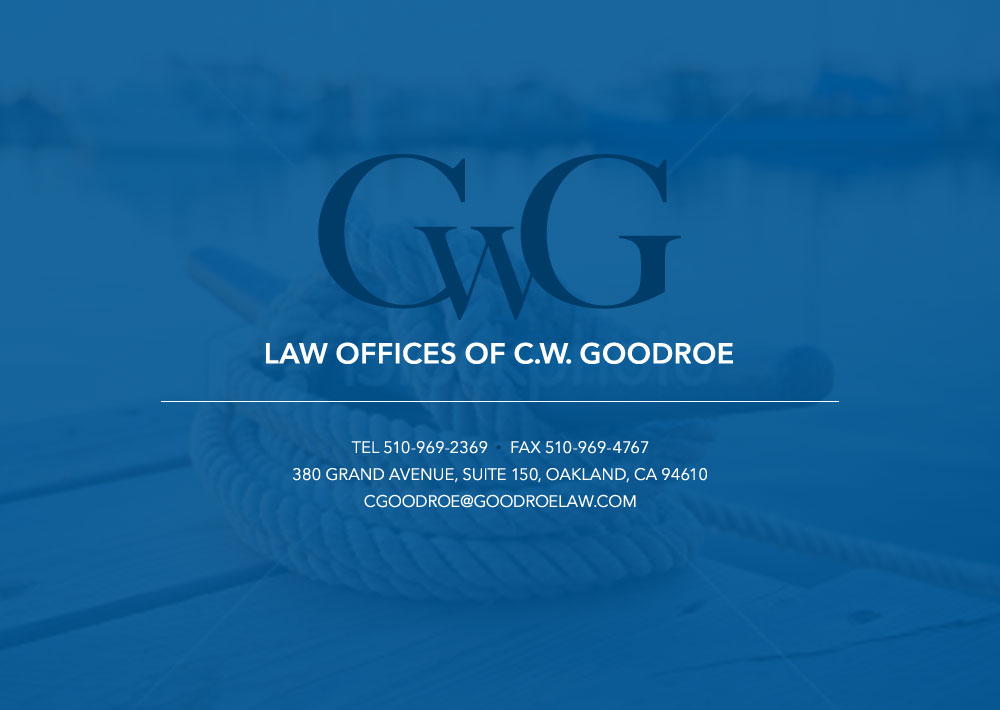
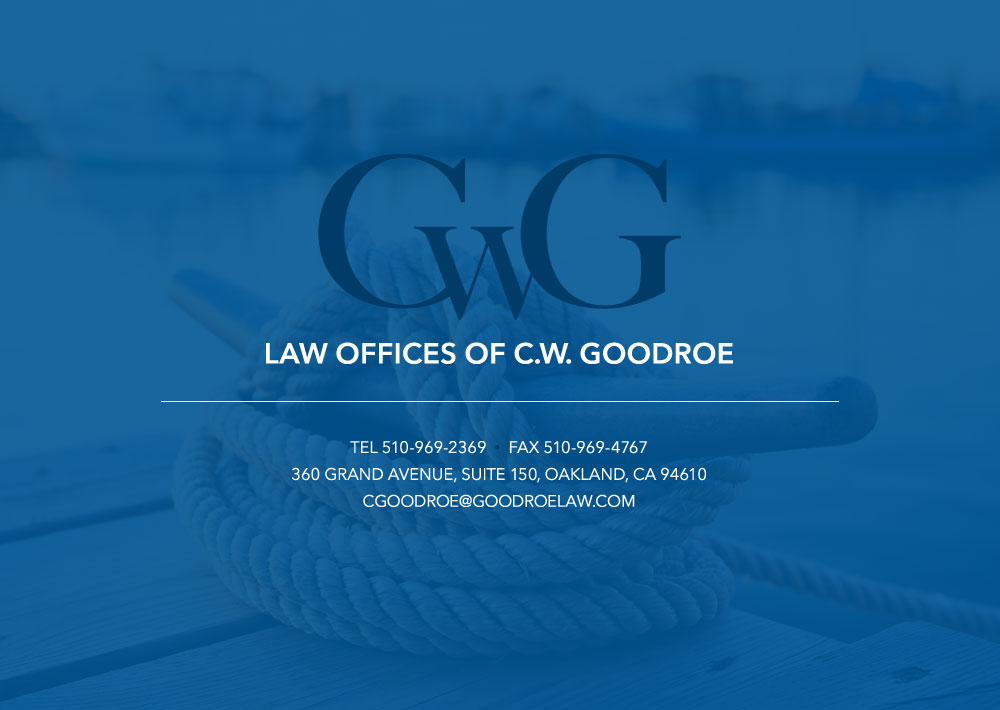
Updated background image and tweaked meta tag.

Changed region(s): [[0.279, 0.6197, 0.713, 0.7127]]

diff --git a/index.html b/index.html
@@ -6,7 +6,7 @@
   <link rel="stylesheet" href="bootstrap/css/bootstrap-responsive.css" media="screen, projection" />
   <link rel="stylesheet" href="res/screen.css" media="screen, projection" />
   <meta name="description" content="Central web presense for CW Goodroe Law, providing legal services for injury and maritime cases." />
-  <meta name="keywords" content="law, legal, injury, maritime, personal injury" />
+  <meta name="keywords" content="law, legal, injury, maritime, personal injury, chris goodroe" />
   <script type="text/javascript" src="https://ajax.googleapis.com/ajax/libs/jquery/1.8.2/jquery.min.js"></script>
 </head>
 <body>
